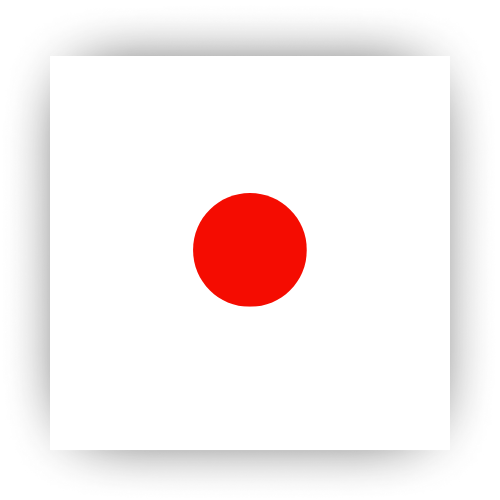
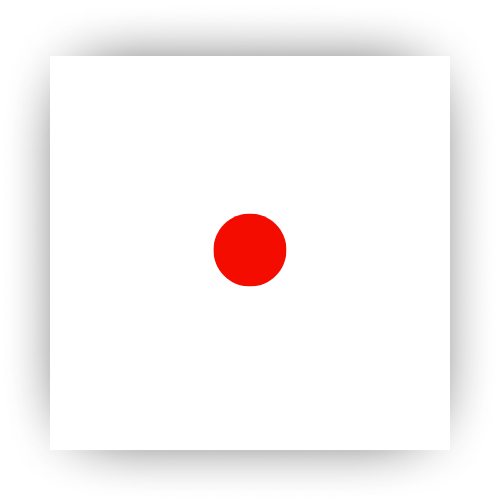
logique rolldice et Hold pour les deux joueurs terminée

Changed region(s): [[0.36, 0.36, 0.63, 0.63]]

diff --git a/script.js b/script.js
@@ -1,0 +1,120 @@
+const holdPlayer1 = document.querySelector(".hold-player1");
+const holdPlayer2 = document.querySelector(".hold-player2");
+const rollDicePlayer1 = document.querySelector(".roll-dice-player1");
+const rollDicePlayer2 = document.querySelector(".roll-dice-player2");
+const currentPlayer1 = document.querySelector(".current-player1 > span");
+const scorePlayer1 = document.querySelector(".score-player1 > p");
+const currentPlayer2 = document.querySelector(".current-player2 > span");
+const scorePlayer2 = document.querySelector(".score-player2 > p");
+const redPointPlayer1 = document.querySelector(".player1 > span");
+const redPointPlayer2 = document.querySelector(".player2 > span");
+var countCurrentPlayer1 = [];
+var countScorePlayer1 = [];
+var countCurrentPlayer2 = [];
+var countScorePlayer2 = [];
+
+function resultScorePlayer1() {
+  let total = 0
+  for (const resultScorePlayer1 of countCurrentPlayer1) {
+    total += resultScorePlayer1
+  }
+  return total
+}
+function resultScoreGlobalPlayer1() {
+  let total = 0
+  for (const resultScoreGlobalPlayer1 of countScorePlayer1) {
+    total += resultScoreGlobalPlayer1
+  }
+  return total;
+}
+function resultScorePlayer2() {
+  let total = 0
+  for (const resultScorePlayer2 of countCurrentPlayer2) {
+    total += resultScorePlayer2
+  }
+  return total
+}
+function resultScoreGlobalPlayer2() {
+  let total = 0
+  for (const resultScoreGlobalPlayer2 of countScorePlayer2) {
+    total += resultScoreGlobalPlayer2
+  }
+  return total;
+}
+
+rollDicePlayer1.addEventListener("click", (e) => {
+  let valueDice = Math.floor(Math.random() * 6) + 1;
+  document
+    .getElementById("dice")
+    .setAttribute("src", "./img/dice" + valueDice + ".png");
+  countCurrentPlayer1.push(valueDice);
+
+  if (valueDice >= 2) { 
+    currentPlayer1.innerHTML = resultScorePlayer1()
+  } else {
+    countCurrentPlayer1 = []
+    countScorePlayer1 = []
+    scorePlayer1.innerHTML = '00'
+    currentPlayer1.innerHTML = '0';
+    rollDicePlayer1.style.visibility = 'hidden';
+    rollDicePlayer2.style.visibility = 'visible'
+    holdPlayer1.style.visibility = 'hidden'
+    holdPlayer2.style.visibility = 'visible'
+    redPointPlayer1.style.visibility = 'hidden'
+    redPointPlayer2.style.visibility = 'visible'
+  }
+});
+
+holdPlayer1.addEventListener('click', (e) => {
+  countScorePlayer1.push(resultScorePlayer1())
+  scorePlayer1.innerHTML = resultScoreGlobalPlayer1()
+  rollDicePlayer1.style.visibility = 'hidden';
+  rollDicePlayer2.style.visibility = 'visible';
+  holdPlayer1.style.visibility = 'hidden'
+  holdPlayer2.style.visibility = 'visible'
+  currentPlayer1.innerHTML = '0'
+  countCurrentPlayer1 = []
+  redPointPlayer1.style.visibility = 'hidden'
+  redPointPlayer2.style.visibility = 'visible'
+})
+
+rollDicePlayer2.addEventListener("click", (e) => {
+  let valueDice = Math.floor(Math.random() * 6) + 1;
+  document
+    .getElementById("dice")
+    .setAttribute("src", "./img/dice" + valueDice + ".png");
+  countCurrentPlayer2.push(valueDice);
+  const scoreGlobalPlayer2 = resultScorePlayer2(countScorePlayer2)
+  
+
+  if (valueDice >= 2) {
+    resultScorePlayer2()
+    currentPlayer2.innerHTML = scoreGlobalPlayer2
+  } else {
+    countCurrentPlayer2 = []
+    countScorePlayer2 = []
+    scorePlayer2.innerHTML = '00'
+    currentPlayer2.innerHTML = '0';
+    rollDicePlayer2.style.visibility = 'hidden';
+    rollDicePlayer1.style.visibility = 'visible'
+    holdPlayer2.style.visibility = 'hidden'
+    holdPlayer1.style.visibility = 'visible'
+    redPointPlayer2.style.visibility = 'hidden'
+    redPointPlayer1.style.visibility = 'visible'
+  }
+});
+
+holdPlayer2.addEventListener('click', (e) => {
+  countScorePlayer2.push(resultScorePlayer2())
+  scorePlayer2.innerHTML = resultScoreGlobalPlayer2()
+  rollDicePlayer2.style.visibility = 'hidden';
+  rollDicePlayer1.style.visibility = 'visible';
+  holdPlayer2.style.visibility = 'hidden'
+  holdPlayer1.style.visibility = 'visible'
+  currentPlayer2.innerHTML = '0'
+  countCurrentPlayer2 = []
+  redPointPlayer2.style.visibility = 'hidden'
+  redPointPlayer1.style.visibility = 'visible'
+})
+
+

diff --git a/index.html b/index.html
@@ -21,7 +21,10 @@
       href="https://fonts.googleapis.com/css2?family=Lato&display=swap"
       rel="stylesheet"
     />
-    <link href="https://fonts.googleapis.com/css2?family=Lato:wght@100;300;400&display=swap" rel="stylesheet">
+    <link
+      href="https://fonts.googleapis.com/css2?family=Lato:wght@100;300;400&display=swap"
+      rel="stylesheet"
+    />
     <title>Jeu - Evaluation STUDI</title>
   </head>
   <body>
@@ -35,7 +38,9 @@
         </div>
         <div class="col-6 col-left left-col-item">
           <div class="container-item">
-            <div class="container-player player player1 text-center">
+            <div
+              class="container-player player player1 d-flex justify-content-center player1 text-center"
+            >
               <p>PLAYER 1</p>
               <span></span>
             </div>
@@ -43,42 +48,53 @@
               <p>00</p>
             </div>
           </div>
-          <div class="current">
+          <div class="current current-player1">
             <p>CURRENT</p>
             <span>0</span>
           </div>
         </div>
         <div class="col-6 col-right right-col-item">
           <div class="container-item">
-            <div class="container-player player player2 text-center">
+            <div
+              class="container-player player player2 d-flex justify-content-center text-center"
+            >
               <p>PLAYER 2</p>
               <span></span>
             </div>
             <div class="score score-player2 text-center">
               <p>00</p>
             </div>
-            <div class="current">
+            <div class="current current-player2">
               <p>CURRENT</p>
               <span>0</span>
             </div>
           </div>
         </div>
         <div class="game-choice position-absolute">
-          <div class="roll-dice d-flex justify-content-center">
+          <div
+            class="roll-dice-player1 roll-dice d-flex justify-content-center"
+          >
             <i class="bi bi-arrow-repeat"></i>
             <p>ROLL DICE</p>
           </div>
-          <div class="hold d-flex justify-content-center mt-2">
+          <div
+            class="roll-dice-player2 roll-dice d-flex justify-content-center"
+          >
+            <i class="bi bi-arrow-repeat"></i>
+            <p>ROLL DICE</p>
+          </div>
+          <div class="hold-player1 hold d-flex justify-content-center mt-2">
+            <i class="bi bi-box-arrow-down"></i>
+            <p>HOLD</p>
+          </div>
+          <div class="hold-player2 hold d-flex justify-content-center mt-2">
             <i class="bi bi-box-arrow-down"></i>
             <p>HOLD</p>
           </div>
         </div>
-        <img src="./img/dice5.png" alt="dice" id="dice">
-
+        <img src="./img/dice5.png" alt="dice" id="dice" />
       </div>
-      
     </main>
-    
 
     <script
       src="https://cdn.jsdelivr.net/npm/bootstrap@5.2.3/dist/js/bootstrap.bundle.min.js"

diff --git a/style.css b/style.css
@@ -75,7 +75,20 @@ body {
 
 .roll-dice:hover {
   cursor: pointer;
-
+}
+.hold-player2 {
+  position: absolute;
+  bottom: 0;
+  left: 0;
+  right: 0;
+  visibility: hidden;
+}
+.roll-dice-player2 {
+  position: absolute;
+  left: 0;
+  right: 0;
+  top: 0;
+  visibility: hidden;
 }
 .hold:hover {
   cursor: pointer;
@@ -89,4 +102,16 @@ body {
   right: 0;
   top: 0;
   bottom: 0;
+}
+.player > span {
+  width: 25px;
+  height: 25px;
+  background: red;
+  border-radius: 50px;
+  margin: auto 0;
+  visibility: hidden;
+}
+
+.player1 > span {
+  visibility: visible;
 }
